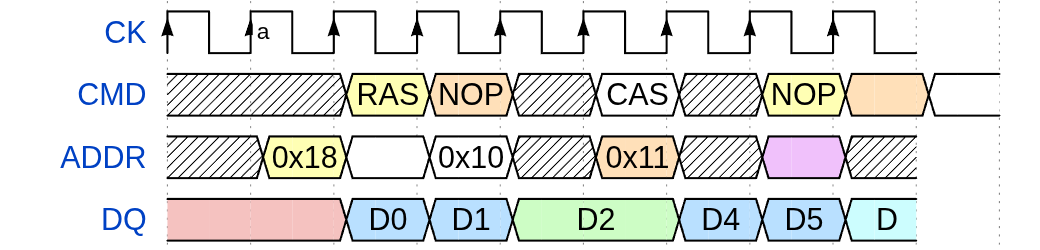
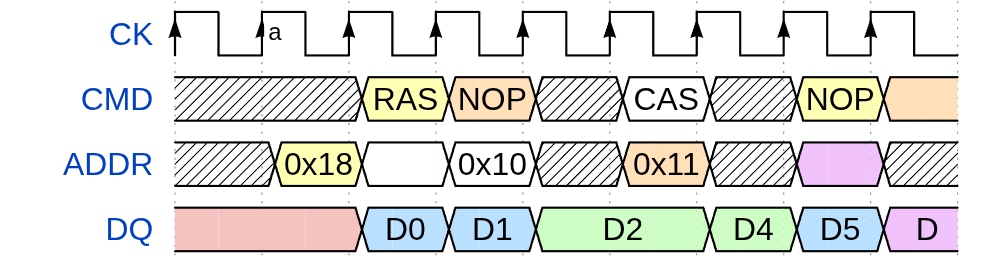
feat(vscode): PNG/SVG 资源管理器右键「使用 WaveDrom-Gui 编辑器打开」
- explorer/context 菜单仅对 .png/.svg 显示；命令不出现在命令面板（依赖右键传入的 uri）
- 打开前用与「编辑波形」同一套 readImageTarget 探测内嵌 WaveJSON：
  有 → 走与 md 预览「编辑波形」完全相同的 openEditor 临时面板，编辑自动写回该图片；
  无 / 文件读不到 → 一次性警告提示，不打开任何面板
- openEditor 的面板绑定逻辑抽取为 setupEditorPanel，两条入口共用一套行为
- 测试：右键菜单声明与命令面板隐藏、含数据进面板、无数据只警告、文件缺失只警告、
  readImageTarget 对 SVG 元数据与导出来源的提取，全套 288 项通过
- sample：两张示例图更新为编辑器重新导出的现代主题版本

diff --git a/vscode/extension.js b/vscode/extension.js
@@ -375,48 +375,40 @@ async function placePanel(panel, cmd) {
   try { await vscode.commands.executeCommand(cmd); } catch (e) { /* 命令不存在：留在原地 */ }
 }
 
-function openEditor(target) {
-  let jsonText, imgPxW = null, imgKind = null;
-  try {
-    if (target.kind === 'fence') jsonText = target.fenceRaw;
-    else {
-      const bytes = fs.readFileSync(target.imgPath);
-      const isSvg = /\.svg$/i.test(target.imgPath);
-      jsonText = isSvg
-        ? svgExtractWaveJSON(bytes.toString('utf8'))
-        : pngExtractWaveJSON(bytes);
-      /* 原图像素宽：像素写回时按它定栅格化比例，避免重绘后 Markdown 里的布局跳动 */
-      if (!isSvg) { const dim = pngGetSize(bytes); imgPxW = dim ? dim.width : null; }
-      /* 原图的导出来源（wavedrom 官方渲染 / editor 编辑区矢量重建）：
-         写回重绘时选同一种，编辑区导出的图才不会在保存后被重绘成官方样式 */
-      imgKind = (isSvg ? svgDetectExportKind(bytes.toString('utf8')) : pngDetectExportKind(bytes)) || 'skill-modern';
-    }
-  } catch (e) { vscode.window.showErrorMessage(t('WaveDrom: Failed to read the diagram — {0}', e.message)); return; }
-  if (!jsonText) { vscode.window.showErrorMessage(t('WaveDrom: No editable WaveJSON in this target')); return; }
+/* 读图片目标的内嵌 WaveJSON 与写回所需的元信息；不含可编辑数据时返回 null */
+function readImageTarget(imgPath) {
+  const bytes = fs.readFileSync(imgPath);
+  const isSvg = /\.svg$/i.test(imgPath);
+  const jsonText = isSvg
+    ? svgExtractWaveJSON(bytes.toString('utf8'))
+    : pngExtractWaveJSON(bytes);
+  if (!jsonText) return null;
+  /* 原图像素宽：像素写回时按它定栅格化比例，避免重绘后 Markdown 里的布局跳动 */
+  let pxW = null;
+  if (!isSvg) { const dim = pngGetSize(bytes); pxW = dim ? dim.width : null; }
+  /* 原图的导出来源（wavedrom 官方渲染 / editor 编辑区矢量重建 / skill-modern）：
+     写回重绘时选同一种，编辑区导出的图才不会在保存后被重绘成官方样式 */
+  const kind = (isSvg ? svgDetectExportKind(bytes.toString('utf8')) : pngDetectExportKind(bytes)) || 'skill-modern';
+  return { jsonText, pxW, kind };
+}
 
-  /* 先备好 HTML 再建面板：界面读不到时直接报错返回，不留下一个空白面板 */
-  let html;
+/* 编辑面板的全部行为：初始化界面、自动写回（代码块 / 图片元数据）、图片像素重绘落盘。
+   openEditor（CodeLens / hover / 命令）与「打开方式」自定义编辑器共用，保证两条入口
+   的编辑与保存行为完全一致。 */
+function setupEditorPanel(panel, target, jsonText, imgPxW = null, imgKind = null) {
+  /* 先备好 HTML：界面读不到时直接报错返回，不留下一个空白面板 */
   try {
-    html = buildEditorHtml(jsonText, panelDocKey(target), target.kind === 'image' && {
+    panel.webview.html = buildEditorHtml(jsonText, panelDocKey(target), target.kind === 'image' && {
       ext: /\.svg$/i.test(target.imgPath) ? 'svg' : 'png',
       pxW: imgPxW,
       kind: imgKind || 'skill-modern',
     });
   }
-  catch (e) { vscode.window.showErrorMessage(t('WaveDrom: Failed to load the editor UI — {0}', e.message)); return; }
-
-  const pos = editorPanelPosition();
-  const name = path.basename(target.kind === 'fence' ? target.docPath : target.imgPath);
-  const panel = vscode.window.createWebviewPanel(
-    'wavedromGuiEditor', t('WaveDrom Editor — {0}', name),
-    /* below / newWindow 都先落在当前栏再交给命令搬走：先 Beside 会多出一栏、搬走后又收起，
-       中间白闪一下 */
-    pos === 'beside' ? vscode.ViewColumn.Beside : vscode.ViewColumn.Active,
-    { enableScripts: true, retainContextWhenHidden: true },
-  );
-  panel.webview.html = html;
-  if (pos === 'below') placePanel(panel, 'workbench.action.moveEditorToBelowGroup');
-  else if (pos === 'newWindow') placePanel(panel, 'workbench.action.moveEditorToNewWindow');
+  catch (e) {
+    vscode.window.showErrorMessage(t('WaveDrom: Failed to load the editor UI — {0}', e.message));
+    panel.dispose();
+    return;
+  }
 
   const saveTarget = Object.assign({}, target); // fenceRaw 会随每次保存演进
   const isImage = saveTarget.kind === 'image';
@@ -470,6 +462,48 @@ function openEditor(target) {
   panel.onDidChangeViewState(ev => { if (!ev.webviewPanel.visible) flushPixels(); });
   /* 关闭面板：onDidDispose 时 webview 已销毁，落盘宿主手里的最后一份像素 */
   panel.onDidDispose(() => flushPixels());
+}
+
+function openEditor(target) {
+  let jsonText, imgPxW = null, imgKind = null;
+  try {
+    if (target.kind === 'fence') jsonText = target.fenceRaw;
+    else {
+      const img = readImageTarget(target.imgPath);
+      if (!img) { vscode.window.showErrorMessage(t('WaveDrom: No editable WaveJSON in this target')); return; }
+      jsonText = img.jsonText; imgPxW = img.pxW; imgKind = img.kind;
+    }
+  } catch (e) { vscode.window.showErrorMessage(t('WaveDrom: Failed to read the diagram — {0}', e.message)); return; }
+
+  const pos = editorPanelPosition();
+  const name = path.basename(target.kind === 'fence' ? target.docPath : target.imgPath);
+  const panel = vscode.window.createWebviewPanel(
+    'wavedromGuiEditor', t('WaveDrom Editor — {0}', name),
+    /* below / newWindow 都先落在当前栏再交给命令搬走：先 Beside 会多出一栏、搬走后又收起，
+       中间白闪一下 */
+    pos === 'beside' ? vscode.ViewColumn.Beside : vscode.ViewColumn.Active,
+    { enableScripts: true, retainContextWhenHidden: true },
+  );
+  setupEditorPanel(panel, target, jsonText, imgPxW, imgKind);
+  if (pos === 'below') placePanel(panel, 'workbench.action.moveEditorToBelowGroup');
+  else if (pos === 'newWindow') placePanel(panel, 'workbench.action.moveEditorToNewWindow');
+}
+
+/* ---------------- 资源管理器右键：「使用 WaveDrom-Gui 编辑器打开」 ----------------
+ * PNG / SVG 的右键菜单入口。打开前先探测内嵌 WaveJSON（与「编辑波形」同一套
+ * readImageTarget）：有 → 走与 md 预览「编辑波形」完全相同的 openEditor 临时面板
+ * （那条路径在真实环境验证最充分，不走自定义编辑器，规避其 webview 初始化时序差异）；
+ * 无 → 一次性警告提示，不打开任何面板。 */
+async function openImageCommand(uri) {
+  const fsPath = uri && uri.fsPath;
+  if (!fsPath) return;
+  let img = null;
+  try { img = readImageTarget(fsPath); } catch (e) { /* 读不到/解析失败都按无数据处理 */ }
+  if (!img) {
+    vscode.window.showWarningMessage(t('WaveDrom: No WaveDrom waveform data embedded in this image'));
+    return;
+  }
+  openEditor({ kind: 'image', docPath: fsPath, imgPath: fsPath });
 }
 
 /* 每个编辑目标一份独立的自动保存键：webview 之间共享 localStorage，若都用 wdgui-doc-v1，
@@ -1020,6 +1054,7 @@ async function activate(ctx) {
   ctx.subscriptions.push(vscode.commands.registerCommand('wavedrom-gui.editImage', editImageCommand));
   ctx.subscriptions.push(vscode.commands.registerCommand('wavedrom-gui.editFromPreview', editFromPreviewCommand));
   ctx.subscriptions.push(vscode.commands.registerCommand('wavedrom-gui.previewFence', previewFenceCommand));
+  ctx.subscriptions.push(vscode.commands.registerCommand('wavedrom-gui.openImage', openImageCommand));
   ctx.subscriptions.push(vscode.window.registerUriHandler({ handleUri }));
   ctx.subscriptions.push(vscode.languages.registerCodeLensProvider({ language: 'markdown' }, makeCodeLensProvider()));
   ctx.subscriptions.push(vscode.languages.registerHoverProvider({ language: 'markdown' }, makeHoverProvider()));
@@ -1053,6 +1088,7 @@ module.exports = {
     editFromPreviewCommand, makePlugin, makeCodeLensProvider, editFenceCommand, editImageCommand, editTargets, registerKey,
     findFence, findFenceAtLine, saveBack, writeText, openEditor, lineOfIndex, buildEditorHtml, panelDocKey,
     parseLoose, rendererModule, renderSvg, previewFenceCommand, makeHoverProvider, previewWebviewHtml,
+    readImageTarget, setupEditorPanel, openImageCommand,
   },
 };
 

diff --git a/vscode/test/run.js b/vscode/test/run.js
@@ -738,6 +738,39 @@ ok((trapMd.match(FENCE_RE) || []).length === 1, '锚定后仅匹配真实围栏'
     { line: 0, character: 0 });
   ok(hoverErr && /Failed to parse WaveJSON/.test(hoverErr.contents[0].value), 'hover：坏 JSON 显示解析错误而不是抛异常');
 
+  /* ---- 8f. 资源管理器右键「使用 WaveDrom-Gui 编辑器打开」：PNG/SVG 打开前探测内嵌 WaveJSON ---- */
+  const { openImageCommand, readImageTarget } = ext.__test;
+  const pkgJson = JSON.parse(fs.readFileSync(path.join(__dirname, '..', 'package.json'), 'utf8'));
+  const ctxMenu = pkgJson.contributes.menus['explorer/context'];
+  const openImageDecl = ctxMenu && ctxMenu.find(mi => mi.command === 'wavedrom-gui.openImage');
+  ok(openImageDecl && openImageDecl.when === 'resourceExtname == .png || resourceExtname == .svg', 'package.json：右键菜单挂在 PNG/SVG 上');
+  ok((pkgJson.contributes.menus.commandPalette || []).some(mi => mi.command === 'wavedrom-gui.openImage' && mi.when === 'false'), 'openImage 不出现在命令面板（依赖 uri 参数）');
+  ok(!pkgJson.contributes.customEditors, 'package.json：不再注册自定义编辑器（改走右键菜单 + 临时面板）');
+  ok(fakeRegisteredCommands['wavedrom-gui.openImage'], 'openImage 命令已注册');
+  // 有内嵌 WaveJSON 的 PNG：走 openEditor 临时面板（与 md 预览同一路径）
+  const withData = path.join(tmp, 'open-with.png');
+  fs.writeFileSync(withData, png2);
+  fakePanels.length = 0; fakeMessages.length = 0;
+  await openImageCommand({ fsPath: withData });
+  ok(fakePanels.length === 1 && fakePanels[0].viewType === 'wavedromGuiEditor' && /wdgui-doc-v1:/.test(fakePanels[0].webview.html), 'openImage：含 WaveJSON 的图片进入编辑面板（md 预览同款路径）');
+  ok(fakeMessages.length === 0, 'openImage：正常打开时无警告');
+  // 无元数据的 PNG：一次性警告，不打开任何面板
+  const plainImg = path.join(tmp, 'open-with-plain.png');
+  fs.writeFileSync(plainImg, skeleton);
+  fakePanels.length = 0; fakeMessages.length = 0;
+  await openImageCommand({ fsPath: plainImg });
+  ok(fakePanels.length === 0 && fakeMessages.length === 1 && fakeMessages[0][0] === 'warn' && /No WaveDrom waveform data/.test(fakeMessages[0][1]), 'openImage：无 WaveJSON 只警告，不开面板');
+  // 读不到的文件：同样只警告
+  fakePanels.length = 0; fakeMessages.length = 0;
+  await openImageCommand({ fsPath: path.join(tmp, 'not-exist.png') });
+  ok(fakePanels.length === 0 && fakeMessages.length === 1 && fakeMessages[0][0] === 'warn', 'openImage：文件读不到也只警告');
+  // readImageTarget：SVG 与坏文件
+  const svgWith = meta.svgWithMeta('<svg xmlns="http://www.w3.org/2000/svg"></svg>', json1, 'editor');
+  const svgPathTmp = path.join(tmp, 'open-with.svg');
+  fs.writeFileSync(svgPathTmp, svgWith);
+  ok(readImageTarget(svgPathTmp).jsonText === json1 && readImageTarget(svgPathTmp).kind === 'editor', 'readImageTarget：SVG 提取元数据与导出来源');
+  ok(readImageTarget(plainImg) === null, 'readImageTarget：无元数据返回 null');
+
   /* ---- 8e. 宿主渲染与宽松解析 ---- */
   const svg1 = renderSvg('{ signal: [{ name: "clk", wave: "p..." }] }');
   ok(svg1.svg && svg1.svg.includes('<svg'), 'renderSvg：渲染出 SVG');
